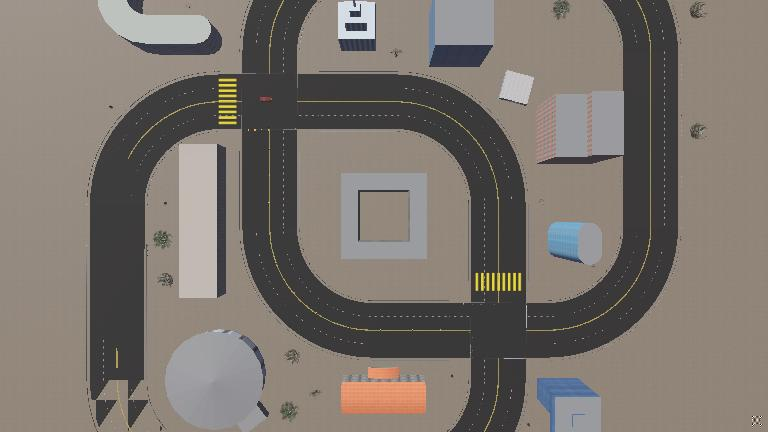
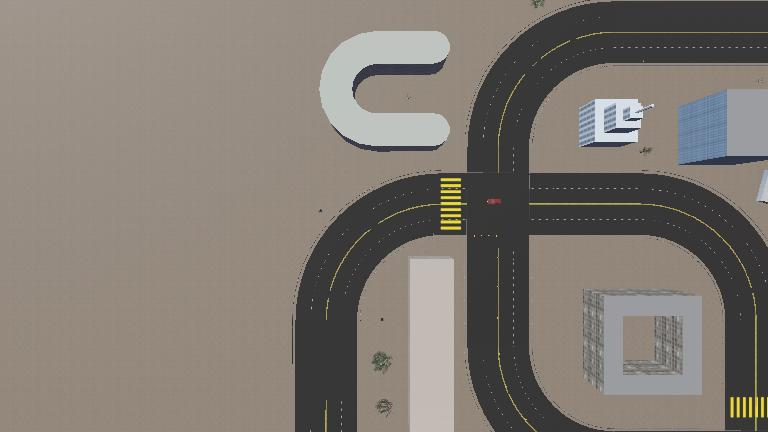
feat: Now the line min detection for lane separator is in its own variable

diff --git a/hough_transform_lane_detection/controllers/lane_controller/lane_controller.py b/hough_transform_lane_detection/controllers/lane_controller/lane_controller.py
@@ -63,6 +63,9 @@ SMOOTHING_ALPHA = 0.3
 # Percentage of the lane to calculate the setpoint.
 LANE_SETPOINT_PERCENTAGE = 0.35
 
+# Max number of lines for the algorithm to detect a lane separator.
+MAX_LINES_FOR_LANE_THRESHOLD = 4
+
 
 class PIDController:
     """
@@ -386,7 +389,7 @@ def main():
 
         # If too many edges generate unstable line detections,
         # use the yellow mask directly for a cleaner Hough transform.
-        if lines is not None and len(lines) > HOUGH_THRESHOLD:
+        if lines is not None and len(lines) > MAX_LINES_FOR_LANE_THRESHOLD:
             lines = detect_lines(apply_region_of_interest(yellow_mask))
 
         lane_center = calculate_lane_center(lines, frame, image_width)